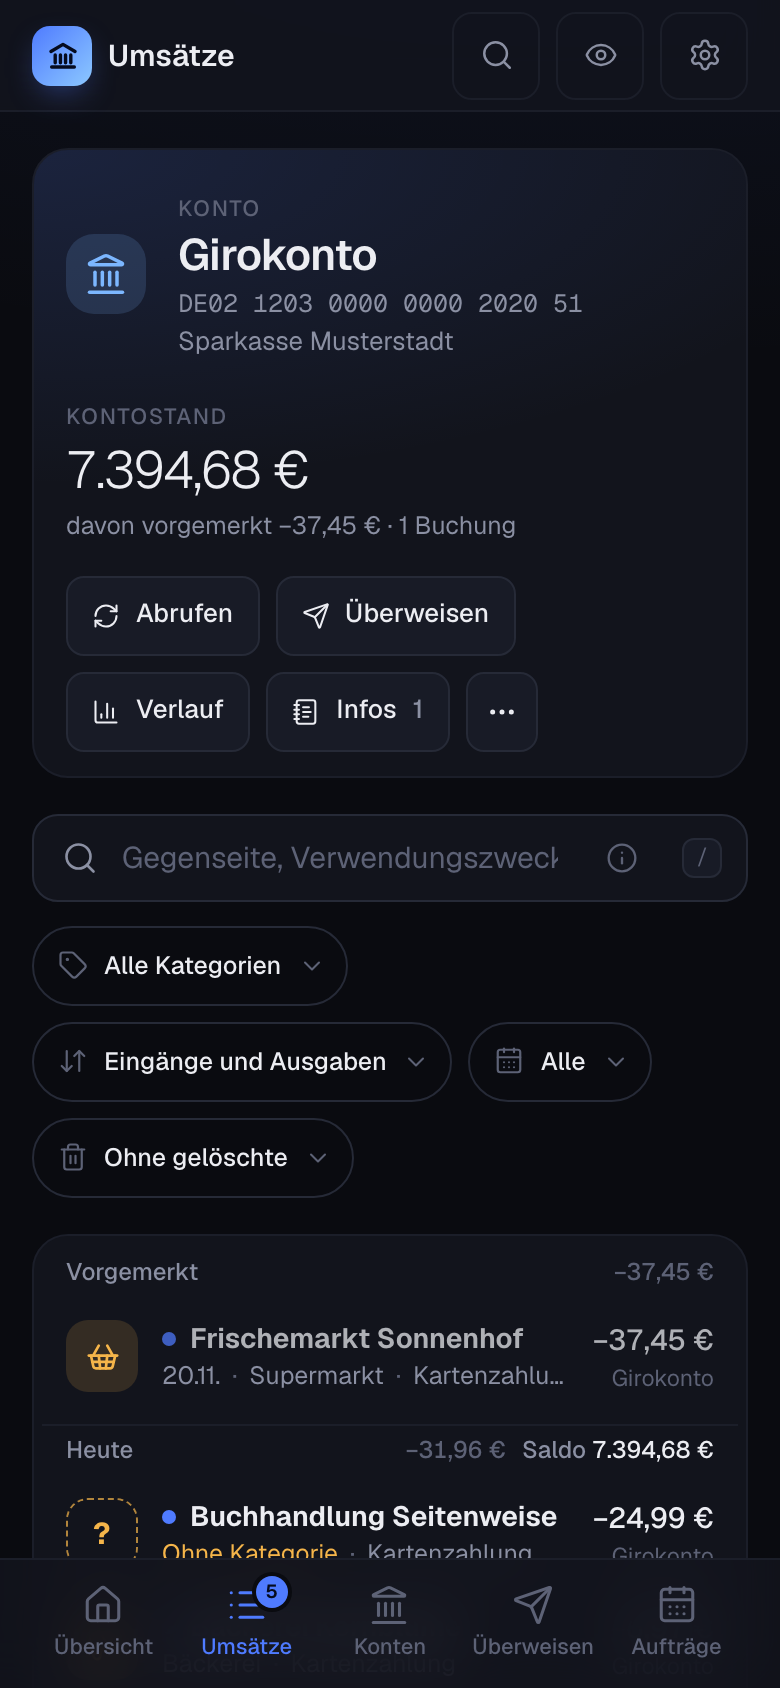
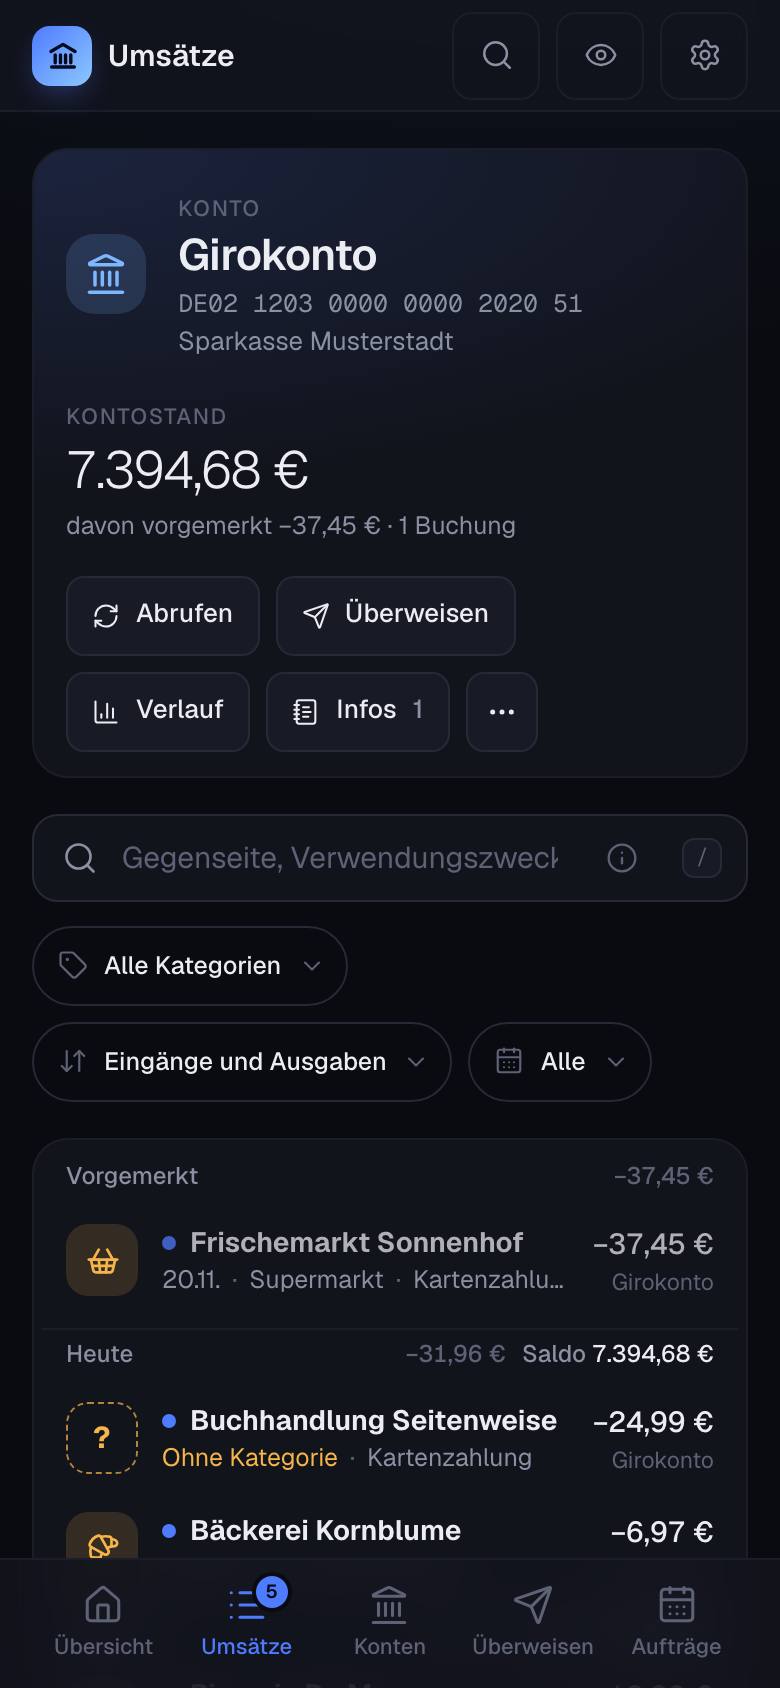
feat(umsätze): gelöschte Umsätze in den Einstellungen statt als Filter der Liste
Die Umsatzliste und der Verlauf kennen den Filter „Gelöschte“ nicht mehr.
Gelöschte Umsätze stehen unter Einstellungen → Gelöschte, gruppiert nach
Konto, mit Wiederherstellen und Details per Klick.

Changed region(s): [[0.0615, 0.6777, 0.7385, 0.9242], [0.7692, 0.6777, 0.9231, 0.9242]]

diff --git a/clients/web/src/pages/Transactions.tsx b/clients/web/src/pages/Transactions.tsx
@@ -1,6 +1,6 @@
 import { useCallback, useEffect, useMemo, useRef, useState } from "react";
 import { useNavigate } from "@tanstack/react-router";
-import { ArrowDownUp, BarChart3, CalendarDays, ChartColumn, ChartLine, ChartNoAxesCombined, Check, CheckCheck, ChevronDown, CircleDot, Folder, Landmark, Plus, RefreshCw, Search, Send, Tag, Trash2, Wand2, X } from "lucide-react";
+import { ArrowDownUp, BarChart3, CalendarDays, ChartColumn, ChartLine, ChartNoAxesCombined, Check, CheckCheck, ChevronDown, CircleDot, Folder, Landmark, Plus, RefreshCw, Search, Send, Tag, Wand2, X } from "lucide-react";
 import { isActive, startSync, useConnections, useSyncRuns } from "../lib/bank";
 import { addDaysIso, dateBounds, groupCardNumber, groupIban, isOffline, isValidIsoDate, parseTxQuery, routes, todayIso, TxRange, type AccountScope, type Transaction, type TxDateBounds } from "@mbm/shared";
 import { transactionsRoute } from "../router";
@@ -41,11 +41,6 @@ const DIR_OPTIONS: { value: TxSearch["dir"]; label: string }[] = [
     { value: "all", label: "Eingänge und Ausgaben" },
     { value: "in", label: "Eingänge" },
     { value: "out", label: "Ausgaben" },
-];
-
-const DELETED_OPTIONS: { value: "live" | "deleted"; label: string }[] = [
-    { value: "live", label: "Ohne gelöschte" },
-    { value: "deleted", label: "Gelöschte" },
 ];
 
 /** Range of the list while neither the URL nor the kept filters of the account set one. */
@@ -170,7 +165,6 @@ function TransactionList() {
         q: validQ || undefined,
         category: search.cat,
         dir: search.dir,
-        ...(search.deleted ? { deleted: "true" as const } : {}),
         limit: 20000,
     });
     const items = useMemo(() => list.data?.items ?? [], [list.data]);
@@ -182,14 +176,14 @@ function TransactionList() {
 
     const catView = isCategoryView(search);
     const rangeSet = !dateInSearch && range !== DEFAULT_RANGE;
-    const filtersSet = (catView ? search.scope !== "all" : search.cat !== "all") || search.dir !== "all" || rangeSet || !!search.deleted;
+    const filtersSet = (catView ? search.scope !== "all" : search.cat !== "all") || search.dir !== "all" || rangeSet;
     // The search counts as soon as something is typed, also a period of own choice
     const searching = q.trim() !== "" || searchText.trim() !== "";
     const [customRange, setCustomRange] = useState(false);
     // Back to the view alone: the account (or category) stays, search and filters go
     const resetAll = () => {
         if (searching) replaceSearch("");
-        if (filtersSet) setFilters(catView ? { scope: undefined, dir: undefined, range: undefined, deleted: undefined } : { cat: undefined, dir: undefined, range: undefined, deleted: undefined });
+        if (filtersSet) setFilters(catView ? { scope: undefined, dir: undefined, range: undefined } : { cat: undefined, dir: undefined, range: undefined });
     };
     const pickRange = (v: TxRange | "custom") => {
         if (v === "custom") return setCustomRange(true);
@@ -202,7 +196,6 @@ function TransactionList() {
         searching && "Suche",
         catView ? search.scope !== "all" && "Konto" : search.cat !== "all" && "Kategorie",
         search.dir !== "all" && "Richtung",
-        search.deleted && "Gelöschte",
         !dateInSearch && listRange !== "all" && `Zeitraum „${RANGE_LABELS[range]}“`,
     ].filter((x): x is string => !!x);
     const order = useMemo(() => listOrder(items), [items]);
@@ -226,12 +219,12 @@ function TransactionList() {
     }
 
     useEffect(() => () => ui.clearPick(), []);
-    useEffect(() => ui.clearPick(), [search.scope, search.cat, validQ, search.dir, search.deleted, listRange]);
+    useEffect(() => ui.clearPick(), [search.scope, search.cat, validQ, search.dir, listRange]);
 
     // A new view or filter whose loaded list lacks the open booking ends its details. Within one
     // view they stay: a counter booking is not in the list, and a booking that just left it by a
     // new category still shows the offer of a rule.
-    const listView = JSON.stringify([search.scope, search.cat, validQ, search.dir, search.deleted, listRange]);
+    const listView = JSON.stringify([search.scope, search.cat, validQ, search.dir, listRange]);
 
     // A period clicked in the chart scrolls the list to its newest day; a new view does not scroll again
     const [jump, setJump] = useState<{ to: string; n: number } | null>(null);
@@ -446,16 +439,6 @@ function TransactionList() {
                             onPick={pickRange}
                         />
                     </Removable>
-                    <Removable label="Filter „Gelöschte“" onClear={search.deleted ? () => setFilters({ deleted: undefined }) : undefined}>
-                        <Choice
-                            icon={Trash2}
-                            label="Gelöschte Umsätze"
-                            options={DELETED_OPTIONS}
-                            value={search.deleted ? "deleted" : "live"}
-                            set={!!search.deleted}
-                            onPick={(v) => setFilters({ deleted: v === "deleted" ? true : undefined })}
-                        />
-                    </Removable>
                 </div>
                 {customRange && (
                     <CustomRangeDialog
@@ -488,7 +471,7 @@ function TransactionList() {
                     <NoBankAccess offline />
                 ) : (
                     <Empty
-                        title={searchText ? `Keine Umsätze für „${searchText}“` : search.deleted ? "Keine gelöschten Umsätze" : "Keine Umsätze mit diesen Filtern"}
+                        title={searchText ? `Keine Umsätze für „${searchText}“` : "Keine Umsätze mit diesen Filtern"}
                         text={
                             (narrowedBy.length ? `Die Liste ist eingeschränkt durch: ${narrowedBy.join(", ")}. ` : "") +
                             "Probiere eine andere Schreibweise, einen längeren Zeitraum oder weniger Filter. Die Suchsyntax steht hinter dem Info-Symbol im Suchfeld."
@@ -849,7 +832,7 @@ function ContextHeader({
                         scope={scope}
                         range={range}
                         span={span}
-                        filter={{ category: search.cat, dir: search.dir, deleted: search.deleted }}
+                        filter={{ category: search.cat, dir: search.dir }}
                         group={chartGroup}
                         chartStyle={chartStyle}
                         onPick={onPickPeriod}

diff --git a/clients/web/src/pages/settings/DeletedTab.tsx b/clients/web/src/pages/settings/DeletedTab.tsx
@@ -1,0 +1,94 @@
+import { useMemo } from "react";
+import { RotateCcw, Trash2 } from "lucide-react";
+import { routes, type Account, type Transaction } from "@mbm/shared";
+import { call } from "../../lib/api";
+import { useAccounts, useAction, useGroups, useTransactions } from "../../lib/queries";
+import { dateText, dateTime, plural, shownParty, shownPurpose } from "../../lib/format";
+import { accountsInTreeOrder } from "../../lib/tree";
+import { ui } from "../../lib/ui";
+import { Amt, Empty } from "../../components/common";
+import { SkeletonRows } from "../../components/Skeleton";
+import { Ic, Tile } from "../../components/icons";
+
+/**
+ * The bookings the user deleted, per account in the order of the sidebar. They are left out of the
+ * list and all figures; here they can be looked at and brought back.
+ */
+export function DeletedTab() {
+    const list = useTransactions({ range: "all", deleted: "true", limit: 20000 });
+    const accounts = accountsInTreeOrder(useGroups().data ?? [], useAccounts().data ?? []);
+    const byAccount = useMemo(() => groupByAccount(list.data?.items ?? [], accounts), [list.data, accounts]);
+
+    if (list.isPending) {
+        return (
+            <section className="panel">
+                <SkeletonRows rows={4} plain />
+            </section>
+        );
+    }
+    if (!byAccount.length) {
+        return (
+            <section className="panel">
+                <Empty icon={Trash2} title="Keine gelöschten Umsätze" text="Löschst du einen Umsatz in seinen Details, verschwindet er aus Liste und Auswertungen und steht dann hier. Von hier holst du ihn zurück." />
+            </section>
+        );
+    }
+    return (
+        <>
+            {byAccount.map(({ account, items }) => (
+                <DeletedPanel key={account?.id ?? items[0]!.accountId} account={account} items={items} />
+            ))}
+        </>
+    );
+}
+
+function DeletedPanel({ account, items }: { account: Account | undefined; items: Transaction[] }) {
+    const action = useAction();
+    const name = account?.name ?? "Unbekanntes Konto";
+    return (
+        <section className="panel" aria-label={`Gelöschte Umsätze in „${name}“`}>
+            <div className="panel-head">
+                <h3 className="del-head">
+                    {account && <Tile icon={account.icon} color={account.color} size={13} className="ti-s" />}
+                    {name}
+                </h3>
+                <span className="muted small">{plural(items.length, "gelöschter Umsatz", "gelöschte Umsätze")}</span>
+            </div>
+            <div className="row-list">
+                {items.map((tx) => (
+                    <div className="row-item" key={tx.id}>
+                        <button className="cc-link del-main" onClick={() => ui.openTx(tx.id)}>
+                            <b>{shownParty(tx) || shownPurpose(tx) || "Umsatz"}</b>
+                            <small>
+                                {dateText(tx.bookingDate)}
+                                {tx.deletedAt ? ` · gelöscht am ${dateTime(tx.deletedAt)}` : ""}
+                            </small>
+                        </button>
+                        <span className="row-actions del-actions">
+                            <Amt cents={tx.amount} signed />
+                            <button
+                                className="btn btn-sm btn-ghost"
+                                disabled={action.pending}
+                                onClick={() => void action.run(() => call(routes.restoreTransaction, { params: { id: tx.id } }), { topics: ["accounts", "transactions", "categories"], ok: "Umsatz wiederhergestellt" })}
+                            >
+                                <Ic icon={RotateCcw} size={14} />
+                                Wiederherstellen
+                            </button>
+                        </span>
+                    </div>
+                ))}
+            </div>
+        </section>
+    );
+}
+
+/** Deleted bookings per account, accounts in the order of the sidebar; newest booking first within each. */
+function groupByAccount(items: Transaction[], accounts: Account[]): { account: Account | undefined; items: Transaction[] }[] {
+    const per = new Map<number, Transaction[]>();
+    for (const tx of items) per.set(tx.accountId, [...(per.get(tx.accountId) ?? []), tx]);
+    const order = [...accounts.map((a) => a.id).filter((id) => per.has(id)), ...[...per.keys()].filter((id) => !accounts.some((a) => a.id === id))];
+    return order.map((id) => ({
+        account: accounts.find((a) => a.id === id),
+        items: per.get(id)!.sort((a, b) => b.bookingDate.localeCompare(a.bookingDate) || b.id - a.id),
+    }));
+}

diff --git a/scripts/screenshots/fixtures.ts b/scripts/screenshots/fixtures.ts
@@ -389,6 +389,21 @@ book({ account: GIRO, date: "2026-11-20", amount: -3745, name: "Frischemarkt Son
 
 transactions.sort((a, b) => b.bookingDate.localeCompare(a.bookingDate) || b.id - a.id);
 
+/** A booking the user deleted: kept apart from the others, so that it counts nowhere, as on the server. */
+function deleted(b: Booking, when: string): Transaction {
+    const t = book(b)!;
+    transactions.pop();
+    return { ...t, unread: false, deletedAt: when };
+}
+
+/** For the deleted bookings in the settings; only those of the bank, one entered by hand goes for good. */
+export const deletedTransactions: Transaction[] = [
+    deleted({ account: GIRO, date: "2026-11-14", amount: -3745, name: "Frischemarkt Sonnenhof", remittance: "Kartenzahlung", category: "Supermarkt" }, at("2026-11-15", "17:42:08")),
+    deleted({ account: GIRO, date: "2026-10-02", amount: -1999, name: "Streamingdienst Flimmer", remittance: "Lastschrift Probeabo", category: null }, at("2026-10-05", "08:12:40")),
+    deleted({ account: CARD, date: "2026-11-09", amount: -12900, name: "Hotel Seeblick", remittance: "Reservierung, storniert", category: null }, at("2026-11-11", "19:03:51")),
+    deleted({ account: PAYPAL, date: "2026-11-03", amount: -2450, name: "Kleinanzeigen Versand", remittance: "Doppelt gebucht", category: null }, at("2026-11-04", "09:27:15")),
+].sort((a, b) => b.bookingDate.localeCompare(a.bookingDate) || b.id - a.id);
+
 // ---------- Derived: accounts, categories ----------
 
 const sumOf = (list: Transaction[]) => list.reduce((s, t) => s + t.amount, 0);
@@ -552,6 +567,7 @@ export interface TxQuery {
     category: string;
     dir: "all" | "in" | "out";
     pending?: boolean;
+    deleted?: boolean;
     limit: number;
 }
 
@@ -560,7 +576,7 @@ export function listTransactions(f: TxQuery) {
     const bounds = f.range ? rangeBounds(f.range) : { from: null, to: null };
     const from = f.from ?? bounds.from;
     const to = f.to ?? bounds.to;
-    let rows = transactions.filter((t) => ids.has(t.accountId) && (!from || t.bookingDate >= from) && (!to || t.bookingDate <= to));
+    let rows = (f.deleted ? deletedTransactions : transactions).filter((t) => ids.has(t.accountId) && (!from || t.bookingDate >= from) && (!to || t.bookingDate <= to));
     if (f.category !== "all") {
         const picked = f.category.split(",");
         const cats = new Set(picked.filter((x) => x !== "none").flatMap((x) => categorySubtree(Number(x))));

diff --git a/server/src/services/transactions.ts b/server/src/services/transactions.ts
@@ -626,7 +626,7 @@ export function balanceSeries(db: Db, scope: AccountScope, days: number, range?:
  * Income and expenses of the bookings of `ids` between `from` and `to` as they count in figures: per share (a split
  * booking counts with each share in its category), without returns and excluded categories such as own transfers.
  * `filter` narrows them like the list: only the shares in the picked categories (which then count even if excluded),
- * only bookings in or out, or only deleted ones. Its arguments follow those of `ids`, `from` and `to`.
+ * or only bookings in or out. Its arguments follow those of `ids`, `from` and `to`.
  */
 function flowQuery(db: Db, ids: number[], select: string, tail = "", filter: FlowFilter = {}): { sql: string; args: number[] } {
     const where: string[] = [];
@@ -650,7 +650,7 @@ function flowQuery(db: Db, ids: number[], select: string, tail = "", filter: Flo
             FROM transactions t
             LEFT JOIN transaction_categories tc ON tc.transaction_id = t.id
             WHERE t.account_id IN (${ids.map(() => "?").join(",")}) AND t.booking_date BETWEEN ? AND ?
-              AND ${filter.deleted ? "t.deleted_at IS NOT NULL" : `t.${LIVE}`}
+              AND t.${LIVE}
               AND ${NOT_RETURNED}
               AND ${where.join(" AND ")}
             ${tail}`;
@@ -661,7 +661,6 @@ function flowQuery(db: Db, ids: number[], select: string, tail = "", filter: Flo
 export interface FlowFilter {
     category?: string;
     dir?: "all" | "in" | "out";
-    deleted?: boolean;
 }
 
 export function cashflow(db: Db, scope: AccountScope, from: string, to: string): { income: number; expenses: number; count: number } {

diff --git a/server/src/api.test.ts b/server/src/api.test.ts
@@ -1158,14 +1158,12 @@ describe("transaction search", () => {
         expect(await day("&dir=in")).toMatchObject({ income: 250000, expenses: 0 });
         expect(await day("&dir=out")).toMatchObject({ income: 0, expenses: -5500 });
         expect(await day("&category=none&dir=out")).toMatchObject({ income: 0, expenses: -1500 });
-        expect(await day("&deleted=true")).toMatchObject({ income: 0, expenses: 0 });
-        // Only deleted bookings; one entered by hand goes for good, an imported one stays as deleted
+        // A deleted booking no longer counts
         await api("POST", `/api/accounts/${cash.id}/import`, { fileName: "a.csv", content: "Datum;Betrag;Name\n02.03.2026;-7,00;Kiosk\n" });
         const imported = (await api<TransactionList>("GET", `/api/transactions?scope=account:${cash.id}&q=Kiosk&range=all`)).body.items[0]!;
         expect(await day("")).toMatchObject({ expenses: -6200 });
         await api("DELETE", `/api/transactions/${imported.id}`);
         expect(await day("")).toMatchObject({ expenses: -5500 });
-        expect(await day("&deleted=true")).toMatchObject({ income: 0, expenses: -700 });
         // The cashflow of the overview stays unfiltered
         const flow = (await api<{ income: number; expenses: number }>("GET", `/api/stats/cashflow?scope=account:${cash.id}&from=2026-03-02&to=2026-03-02`)).body;
         expect(flow).toMatchObject({ income: 250000, expenses: -5500 });

diff --git a/clients/web/src/pages/Settings.tsx b/clients/web/src/pages/Settings.tsx
@@ -19,6 +19,7 @@ import { BankAccessCards, BankDirectoryRow, BankStatusRows } from "../components
 import { SkeletonRows } from "../components/Skeleton";
 import { Ic, Sym, Tile } from "../components/icons";
 import { RulesTab } from "./Rules";
+import { DeletedTab } from "./settings/DeletedTab";
 import { ProfileTab } from "./settings/ProfileTab";
 import { SystemTab } from "./settings/SystemTab";
 import { NewUserDialog, UsersTab } from "./settings/UsersTab";
@@ -32,7 +33,7 @@ export function SettingsPage() {
             <div className="page-head">
                 <div>
                     <h1>Einstellungen</h1>
-                    <p className="muted">Konten, Regeln, Importe, dein Profil, Benutzer und System</p>
+                    <p className="muted">Konten, Regeln, Importe, gelöschte Umsätze, dein Profil, Benutzer und System</p>
                 </div>
                 {tab === "accounts" && (
                     <div className="head-actions">
@@ -77,6 +78,7 @@ export function SettingsPage() {
             {tab === "accounts" && <AccountsTab />}
             {tab === "rules" && <RulesTab />}
             {tab === "imports" && <ImportsTab />}
+            {tab === "deleted" && <DeletedTab />}
             {tab === "profile" && <ProfileTab />}
             {tab === "users" && <UsersTab />}
             {tab === "system" && <SystemTab />}

diff --git a/clients/web/src/lib/queries.ts b/clients/web/src/lib/queries.ts
@@ -112,15 +112,15 @@ export const useSeries = (scope: AccountScope, days: number, range?: TxRange, sp
     });
 
 /** What narrows the income and expenses of `useFlows`, as the filters of the list do. */
-export type FlowFilter = { category?: string; dir?: "all" | "in" | "out"; deleted?: boolean };
+export type FlowFilter = { category?: string; dir?: "all" | "in" | "out" };
 
 /** Income and expenses per day over the days of the balance series, narrowed by `filter`; `enabled` false leaves it unasked. */
 export const useFlows = (scope: AccountScope, days: number, range?: TxRange, span?: TxDateBounds, filter?: FlowFilter, enabled = true) =>
     useQuery({
-        queryKey: ["stats", "flows", scope, days, range, span?.from, span?.to, filter?.category, filter?.dir, filter?.deleted],
+        queryKey: ["stats", "flows", scope, days, range, span?.from, span?.to, filter?.category, filter?.dir],
         queryFn: () =>
             call(routes.flows, {
-                query: { scope, days, range, from: span?.from, to: span?.to, category: filter?.category, dir: filter?.dir, ...(filter?.deleted ? { deleted: "true" as const } : {}) },
+                query: { scope, days, range, from: span?.from, to: span?.to, category: filter?.category, dir: filter?.dir },
             }),
         enabled,
     });

diff --git a/clients/web/src/lib/search.test.ts b/clients/web/src/lib/search.test.ts
@@ -25,13 +25,11 @@ describe("transaction filters in the URL", () => {
         expect(catParam(["12", "none", "12"])).toBe("12,none");
     });
 
-    it("shows the deleted bookings in the URL, never among the filters kept for the account", () => {
-        const s = parseTxSearch({ scope: "account:2", deleted: true, dir: "out" });
-        expect(s.deleted).toBe(true);
-        expect(compactTxSearch(s)).toEqual({ scope: "account:2", dir: "out", deleted: true });
+    it("drops the filter for deleted bookings of earlier links: they live in the settings now", () => {
+        const s = parseTxSearch({ scope: "account:2", deleted: "1", dir: "out" });
+        expect(s).not.toHaveProperty("deleted");
+        expect(compactTxSearch(s)).toEqual({ scope: "account:2", dir: "out" });
         expect(filterOf(s)).toEqual({ dir: "out" });
-        expect(parseTxSearch({ deleted: "yes" }).deleted).toBeUndefined();
-        expect(compactTxSearch(parseTxSearch({ deleted: false }))).toEqual({});
     });
 
     it("shows the view of one category only", () => {

diff --git a/clients/web/src/lib/search.ts b/clients/web/src/lib/search.ts
@@ -14,8 +14,6 @@ export interface TxSearch {
     ctx: "acc" | "cat";
     /** "none": no view picked yet; the page asks to pick one in the sidebar instead of a list. */
     view?: "none";
-    /** Only the deleted bookings. Not kept with the filters of the account: it is a look into the bin. */
-    deleted?: true;
 }
 
 // Same format as `category` of the transaction query
@@ -51,7 +49,6 @@ export function parseTxSearch(raw: Record<string, unknown>): TxSearch {
         range: range.success ? range.data : undefined,
         ctx: raw.ctx === "cat" ? "cat" : "acc",
         view: raw.view === "none" ? "none" : undefined,
-        deleted: raw.deleted === "1" || raw.deleted === 1 || raw.deleted === true ? true : undefined,
     };
 }
 
@@ -64,7 +61,6 @@ export function compactTxSearch(s: Partial<TxSearch>): Partial<TxSearch> {
     if (s.range) out.range = s.range;
     if (s.ctx === "cat") out.ctx = "cat";
     if (s.view === "none") out.view = "none";
-    if (s.deleted) out.deleted = true;
     return out;
 }
 

diff --git a/clients/web/src/pages/TxDrawer.tsx b/clients/web/src/pages/TxDrawer.tsx
@@ -402,5 +402,5 @@ function Drawer({ id, panel }: { id: number; panel: boolean }) {
 function deleteText(tx: Transaction, amount: string): string {
     if (tx.source === "manual") return `Die Buchung über ${amount} wird gelöscht.${tx.counterTransactionId ? " Die Verknüpfung zur Gegenbuchung wird gelöst." : ""} Das lässt sich nicht rückgängig machen.`;
     const along = [tx.fundedById !== null && "Die von MBM ergänzte Buchung dazu wird mit gelöscht.", tx.counterTransactionId && "Die Gegenbuchung wird entfernt."].filter(Boolean).join(" ");
-    return `Der Umsatz über ${amount} verschwindet aus Liste und Auswertungen und kommt auch beim nächsten Abruf nicht wieder.${along ? ` ${along}` : ""} Unter dem Filter „Gelöschte“ kannst du ihn wiederherstellen.`;
+    return `Der Umsatz über ${amount} verschwindet aus Liste und Auswertungen und kommt auch beim nächsten Abruf nicht wieder.${along ? ` ${along}` : ""} Unter Einstellungen → Gelöschte kannst du ihn wiederherstellen.`;
 }

diff --git a/server/src/routes/data.ts b/server/src/routes/data.ts
@@ -219,7 +219,7 @@ export function registerDataRoutes(app: FastifyInstance, ctx: AppContext): void 
     });
 
     handle(app, ctx, routes.flows, ({ db, query }) => ({
-        points: tx.flowSeries(db, query.scope, query.days, query.range, todayIso(), { from: query.from, to: query.to }, { category: query.category, dir: query.dir, deleted: query.deleted }),
+        points: tx.flowSeries(db, query.scope, query.days, query.range, todayIso(), { from: query.from, to: query.to }, { category: query.category, dir: query.dir }),
     }));
 
     handle(app, ctx, routes.cashflow, ({ db, query }) => tx.cashflow(db, query.scope, query.from, query.to));

diff --git a/clients/web/src/styles/app.css b/clients/web/src/styles/app.css
@@ -1342,6 +1342,10 @@ body { margin: 0; }
 .row-item b { font-weight: 500; }
 .row-item small { display: block; color: var(--faint); font-size: 12px; }
 .row-actions { display: flex; gap: 6px; flex-wrap: wrap; justify-content: flex-end; }
+/* Deleted bookings in the settings: account in the head, amount beside the restore button */
+.del-head { display: flex; align-items: center; gap: 8px; }
+.del-main { display: block; }
+.del-actions { align-items: center; gap: 12px; }
 .row-sub { margin: 0 0 8px 14px; padding-left: 12px; border-left: 2px solid var(--line-soft); }
 .row-sub .row-item { padding: 6px 2px; }
 @media (max-width: 640px) {
